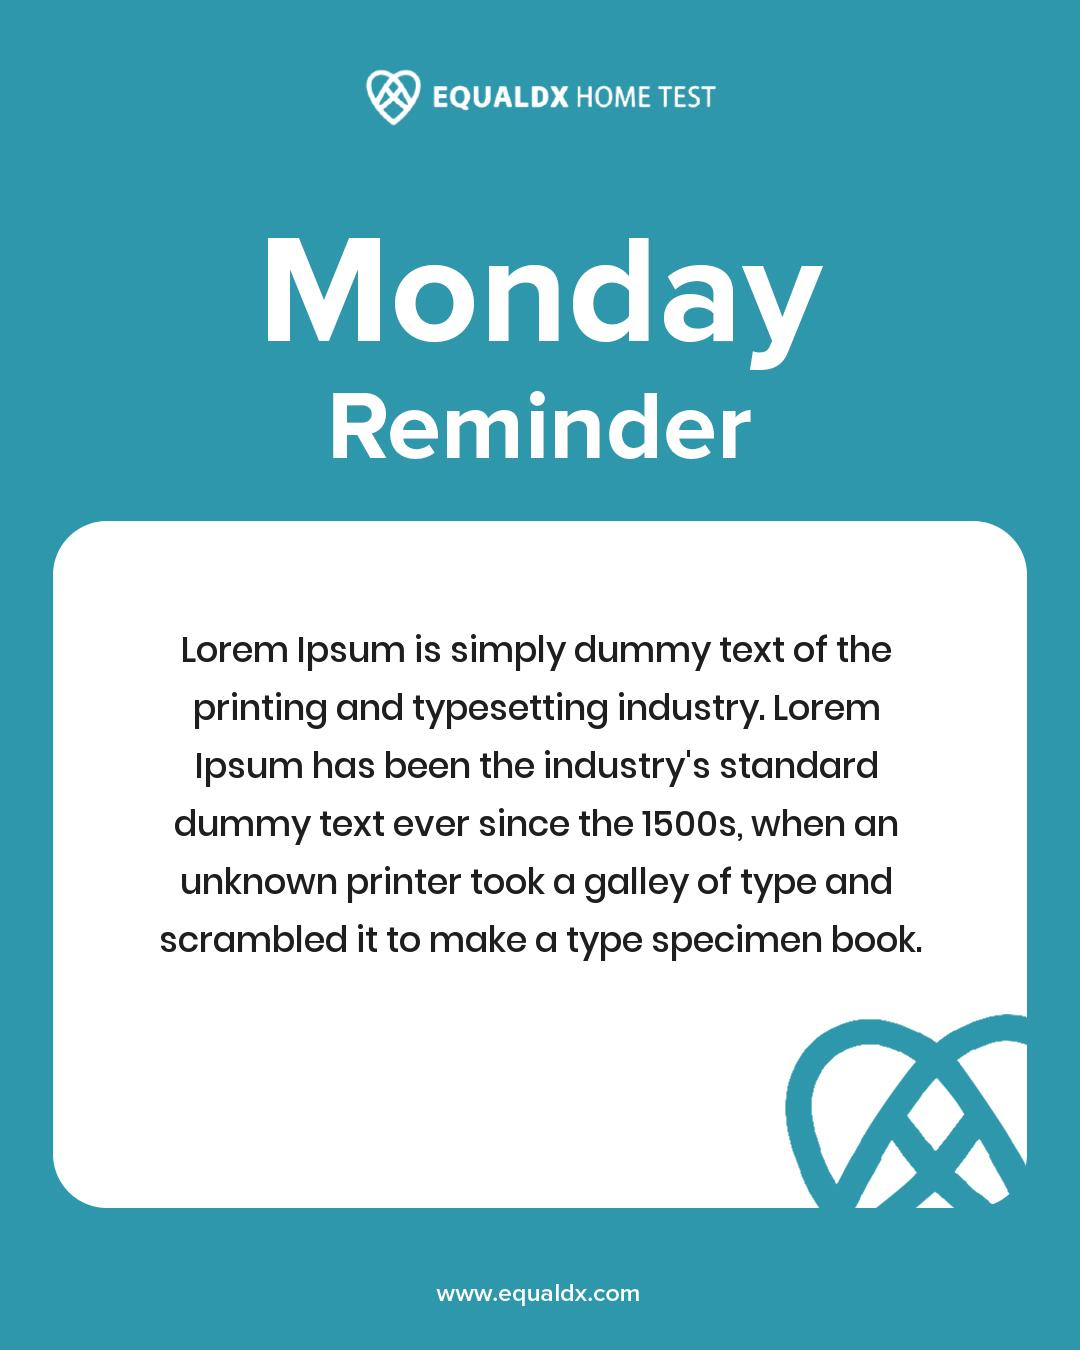
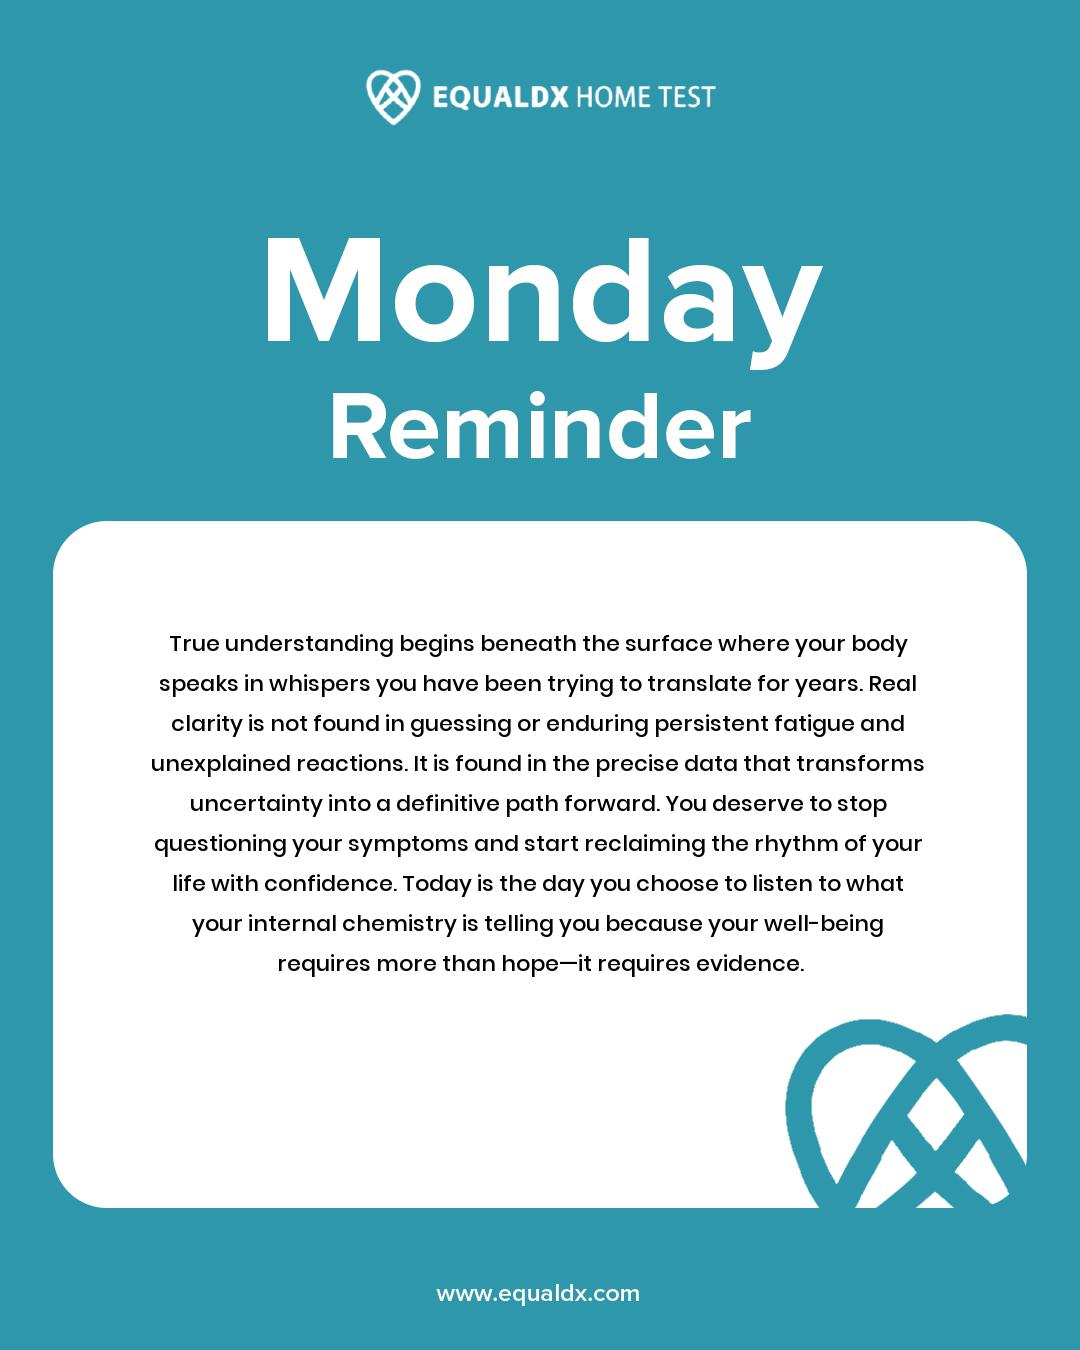
Applied word limit

Changed region(s): [[0.1528, 0.4667, 0.8556, 0.7156]]

diff --git a/api.py b/api.py
@@ -162,6 +162,10 @@ class ReviewRequest(BaseModel):
         "#1E1E1E",
         validation_alias=AliasChoices("font_color", "review_text_font_color", "review_text_color"),
     )
+    max_words: int | None = Field(
+        60,
+        description="Optional max number of words for review text; if exceeded the text will be truncated with an ellipsis (default: 100)",
+    )
     reviewer_name_font_color: str = Field(
         "#1E1E1E",
         validation_alias=AliasChoices("reviewer_name_font_color", "reviewer_name_color"),
@@ -512,9 +516,16 @@ def render_text_review(payload: ReviewRequest) -> RenderResponse:
                 resolved_fonts["emoji"] = emoji_font_path
             
             review_line_height = payload.line_height or (payload.font_size + 12)
+            # enforce optional max_words truncation
+            text_to_render = payload.text
+            if payload.max_words is not None:
+                words = text_to_render.split()
+                if len(words) > payload.max_words:
+                    text_to_render = " ".join(words[: payload.max_words]) + "..."
+
             rendered_image = render_dynamic_text(
                 image=image,
-                lines=[_build_plain_segment(payload.text, payload.font_color, payload.font_size)],
+                lines=[_build_plain_segment(text_to_render, payload.font_color, payload.font_size)],
                 start_xy=review_text_xy,
                 text_box=(payload.text_box.model_dump() if payload.text_box else None),
                 fonts=resolved_fonts,